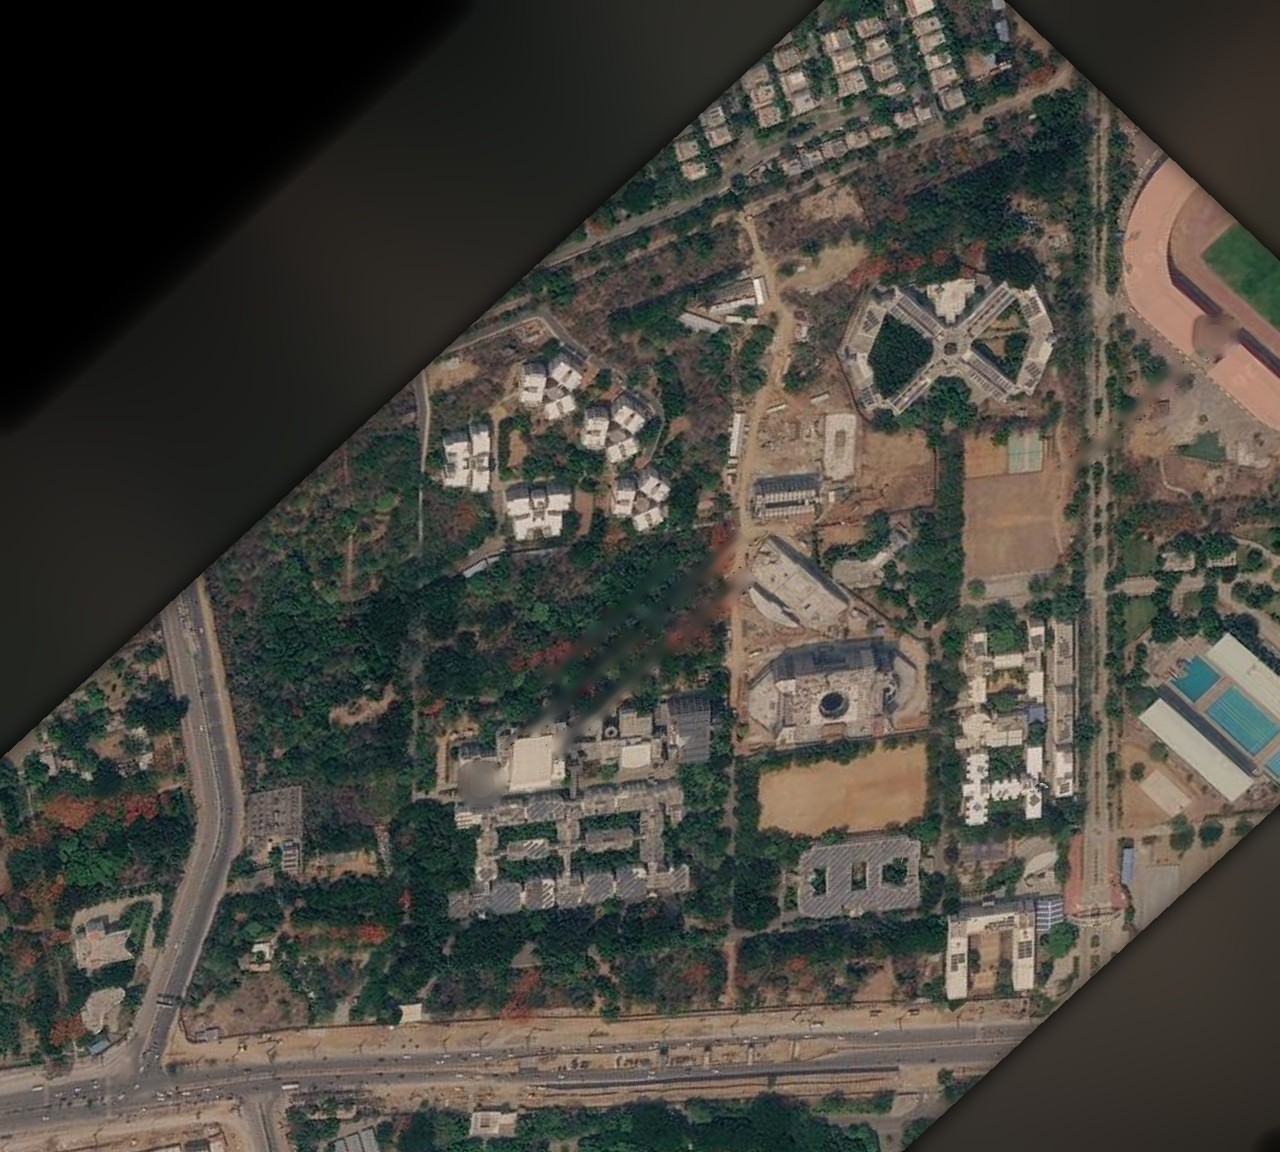
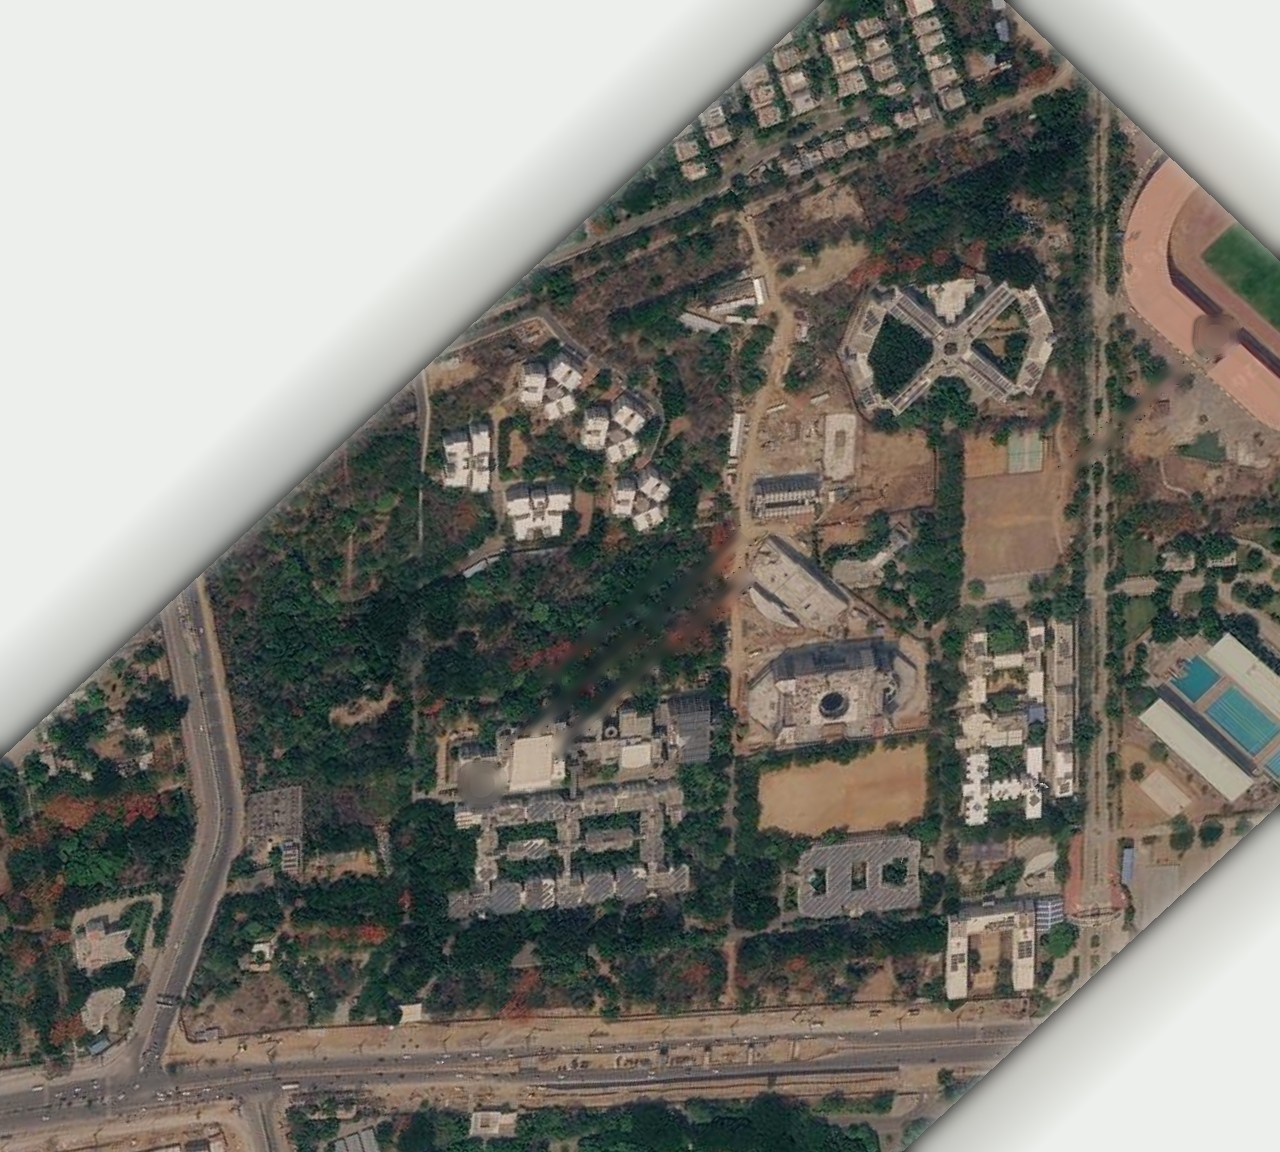
Fable fixes (mine): tour keys win over page keys (clicker no longer desyncs at IIIT Way), idle never ends a running tour and doesn't re-render a screen already home, tour cut to 6 steps incl. Then and now, board3 plays only the map, sourced captions for Bakul/Felicity, Google Earth credit and label 
Claude-Session: https://claude.ai/code/session_017PAGJRn717tYzJ7Tw9vE9L

Changed region(s): [[0.0, 0.0, 0.6562, 0.6562], [0.6875, 0.6875, 1.0, 1.0], [0.7812, 0.0, 1.0, 0.25]]

diff --git a/site/data/notes.js b/site/data/notes.js
@@ -7,27 +7,23 @@ M.notes = {
   pages: {
     start: { text: "Our question is in the title: do you know your institute? IIIT started in borrowed government buildings, with company schools in its classrooms. Over the years it took those spaces back and built its own. The logo is a banyan, and a banyan does the same thing: it leans on another tree, then drops its own roots. Each board is one part of that story.", sources: ["S-PJN", "S-GOPI"] },
     timeline: { text: "Everything we found, by year. Scroll to zoom in. The busiest stretch is 1998 to 2002: 49 of 50 students joined for a diploma, classes ran on two floors of Nilgiri, and IIIT became a deemed university in 2001. Zoom in all the way and some cards say \"Sources disagree\". Those are the ones we cover on Board 4.", sources: ["S-PJN", "S-GOPI"] },
-    photos: { text: "Old photos from IIITH's 20-year video and the prospectus from around 2001. Point out the gate sign, which says \"Indian Institute of Information Technology\", and the guest house sign, which says \"Mess & Lounge\". The guest house really was the first mess, and two separate sources back that up (it's card V1 on Board 4).", sources: ["S-PHOTOS", "S-PROSP", "S-GOPI"] },
-    way: { text: "Borrow, share, take back, build your own. Six company schools ran in Vindhya until IIIT took it back in 2007. Himalaya was built on a 22 crore loan, paid off in six of ten years. Only Block C was fitted out with IIIT's own money: Block A came with TalentSprint (bought out in 2018), the Kohli block with TCS, and Block D was T-Hub from 2015 to 2022. Don't say Himalaya had no company money in it.", sources: ["S-PJN", "S-NEWS-THUB", "S-PROSP"] },
+    photos: { text: "Old photos from IIITH's 20-year video and the prospectus from around 2001. Point out the gate sign, which says \"Indian Institute of Information Technology\", and the guest house sign, which says \"Mess & Lounge\". The guest house really was the first mess, and two separate sources back that up (it's card V1 on the Board 4 screen).", sources: ["S-PHOTOS", "S-PROSP", "S-GOPI"] },
+    way: { text: "Borrow, share, take back, build your own. Six company schools ran in Vindhya. IIIT took full control of it in 2007. Himalaya was built on a 22 crore loan, paid off in six of ten years. Only Block C was fitted out with IIIT's own money: Block A came with TalentSprint (bought out in 2018), the Kohli block with TCS, and Block D was T-Hub from 2015 to 2022. Don't say Himalaya had no company money in it.", sources: ["S-PJN", "S-NEWS-THUB", "S-PROSP"] },
     buildings: { text: "Satellite screenshots of four places, oldest to newest: the New Academic Block, Bakul Nivas, the Felicity ground and the amphitheatre. Only one frame has a date we could read (the amphitheatre, 14 March 2018), so don't guess years for the others. The NAB is going up where the first batch lived in 1998.", sources: ["S-PHOTOS", "S-PJN"] },
     map: { text: "The 2002 layout plan, fading into a satellite view of the campus today. Pick a journey on the left. The library is the best one: it opened in Nilgiri room 119 (now Saranga Hall) in 1998, moved to Vindhya A6 in 2001, and will move to the NAB. Rooms move around a lot more than people think.", sources: ["S-LAYOUT2002", "S-MURALI", "S-PING", "S-PJN"] },
     histree: { text: "HISTREE is the history of the trees. SLN Shastry saved four banyans from a road widening. One of them, Navjeevan, was moved three times: from the main road to Bakul Nivas, then to OBH. Even the trees were moved here and took root.", sources: ["S-SLN"] },
     "how-we-know": { text: "This is the public history part. Memory disagrees: Gopi says 100 acres were allotted, while the 2002 plan and the prospectus both say 62. Click a card to flip it. The verified cards are claims two independent sources agree on. We also got one thing wrong ourselves: our Phase 4 draft said Gopi ran the first mess, but his interview says he turned that job down. We fixed it.", sources: ["S-GOPI", "S-LAYOUT2002", "S-PROSP", "S-PHASE4"] },
     voices: { text: "Seven people told us their IIIT. Everyone agreed to be recorded and quoted. Each page has the full transcript, and you can search it.", sources: ["S-GOPI", "S-PJN", "S-SLN"] },
     archive: { text: "The documents we worked from: the prospectus from around 2001, the lab floor plans, the 2002 layout plan and the Ping article. These shouldn't live only on our website. If someone has an old photo or document, ask them to send it to us.", sources: ["S-PROSP", "S-FLOORPLANS", "S-LAYOUT2002", "S-PING"] },
+    ending: { text: "Every generation here thought it had run out of room: no degree in 1998, no hostels in 1999, borrowed teachers. Each one got solved. That's why we're hopeful about today's problems too.", sources: ["S-PJN", "S-PROSP"] },
     quiz: { text: "Eight questions. If someone took it at the entry, ask them to try again now and see if their score went up.", sources: [] }
   },
   tour: [
-    { route: "#/start", title: "Do you know your institute?", text: "Four boards, one story: how IIIT grew its own roots." },
-    { route: "#/timeline", title: "The timeline", text: "Every event we found, 1998 to today. Scroll to zoom." },
-    { route: "#/photos", title: "Old campus", text: "The early years, in old photos." },
-    { route: "#/way", title: "The IIIT Way", text: "Borrow, share, take back, build your own." },
-    { route: "#/buildings", title: "How buildings grew", text: "Satellite views, oldest to newest." },
-    { route: "#/map?journey=library", title: "Moving rooms", text: "The library has moved twice. Pick any journey." },
-    { route: "#/histree", title: "HISTREE", text: "Even the trees were moved." },
+    { route: "#/start", title: "Do you know your institute?", text: "IIIT started in borrowed buildings and slowly put down its own roots." },
+    { route: "#/way/build", title: "Himalaya: one loan, four blocks", text: "Only Block C was fitted out with IIIT's own money." },
+    { route: "#/map?journey=library", title: "Rooms move", text: "The library has had three homes. Pick any journey." },
     { route: "#/how-we-know", title: "How we know", text: "Where memories disagree, and how we checked." },
-    { route: "#/voices", title: "Voices", text: "Seven interviews, with full transcripts." },
-    { route: "#/archive", title: "The archive", text: "The documents behind all of this." },
+    { route: "#/ending", title: "Every generation ran out of room", text: "Each problem felt permanent. Each one got solved." },
     { route: "#/quiz", title: "Try the quiz again", text: "Did your score go up?" }
   ]
 };

diff --git a/site/js/pages/slides.js b/site/js/pages/slides.js
@@ -30,11 +30,13 @@
   /* Board 2. Satellite sequences, in the order context.md 14.3 gives. Frames come from places.js `sequence`. */
   var BUILD_PLACES = [
     { id: "nab", name: "New Academic Block", line: "Going up where the first batch lived in 1998." },
-    { id: "bakul", name: "Bakul Nivas", line: "A newer hostel, built on open land." },
-    { id: "felicity", name: "Felicity ground", line: "An open ground that got courts." },
+    { id: "bakul", name: "Bakul Nivas", line: "Seen from above while it was built." },
+    { id: "felicity", name: "Felicity ground", line: "The Felicity ground, seen from above." },
     { id: "amphitheatre", name: "Amphitheatre", line: "The amphitheatre and the basketball court." }
   ];
 
+  // black video bars on the 20-year-video stills: [top %, bottom %] to crop away
+  var CROP = { "img-01": [14.4, 5.1], "img-02": [13.4, 12.6], "img-03": [13.0, 12.5], "img-04": [13.0, 12.6], "img-05": [12.9, 12.5], "img-07": [6.5, 0] };
   var FILE_SIZES = { "ximg-01.jpg": [550, 324], "ximg-02.jpg": [550, 324], "ximg-05.jpg": [173, 209], "ximg-06.jpg": [524, 425], "ximg-07.jpg": [499, 431] };
 
   var S = null;
@@ -42,12 +44,14 @@
   /** {src, w, h} for an image id from images.js or a plain file path. */
   function pic(x) {
     var im = U.image(x);
-    if (im) return { src: im.file, w: im.w || 1600, h: im.h || 1000 };
+    if (im) return { src: im.file, w: im.w || 1600, h: im.h || 1000, crop: CROP[x] || null };
     var sz = FILE_SIZES[x.split("/").pop()] || [1600, 1000];
     return { src: x, w: sz[0], h: sz[1] };
   }
   function imgNode(p, extra) {
-    var st = { "--ar": (p.w / p.h).toFixed(4), "--nw": Math.round(p.w * 2.2) + "px" };
+    var keep = p.crop ? 1 - (p.crop[0] + p.crop[1]) / 100 : 1;
+    var st = { "--ar": (p.w / (p.h * keep)).toFixed(4), "--nw": Math.round(p.w * 2.2) + "px" };
+    if (p.crop) st.objectViewBox = "inset(" + p.crop[0] + "% 0 " + p.crop[1] + "% 0)";
     Object.keys(extra || {}).forEach(function (k) { st[k] = extra[k]; });
     return el("div", { class: "sl-img" }, el("img", { src: p.src, alt: "", draggable: "false", style: st }));
   }
@@ -187,7 +191,7 @@
         el("div", { class: "sl-pips" }, Array.apply(null, { length: item.n }).map(function (_, j) {
           return el("i", { class: j < item.k ? "done" : (j === item.k ? "now" : "") });
         })),
-        el("p", { class: "sl-src" }, "Satellite screenshots, oldest to newest. Frame " + (item.k + 1) + " of " + item.n + ".")));
+        el("p", { class: "sl-src" }, "Google Earth screenshots, oldest to newest. Frame " + (item.k + 1) + " of " + item.n + ".")));
     return node;
   }
 

diff --git a/site/data/places.js b/site/data/places.js
@@ -11,7 +11,7 @@ M.places = [
     summary: "The first academic building. First classes, first library (room 119, now Saranga Hall) and the first server room were all here.",
     images: ["img-37", "img-38", "img-x01"], journeys: ["library", "big-hall", "server-room"], sources: ["S-PJN", "S-SLN", "S-MURALI", "S-LAYOUT2002"] },
   { id: "vindhya", name: "Vindhya", aka: ["\"Corporate Schools\" on the 2002 plan"],
-    hotspot: { plan2002: { x: 30.5, y: 63.5, w: 26, h: 16 }, now: null },
+    hotspot: { plan2002: { x: 30.5, y: 63.5, w: 26, h: 16 }, now: null }, labelBelow: true,
     summary: "Built for the old district collectorate. IIIT's company schools ran here until 2007. Then it became labs, and later home to the library.",
     images: ["img-19"], journeys: ["vindhya-rooms", "library", "sleep", "big-hall", "labs"], sources: ["S-GOPI", "S-PJN", "S-LAYOUT2002", "S-BLOGCORP"] },
   { id: "guest-house", name: "Guest House", aka: ["\"Guest House\" with a lawn on the 2002 plan"],
@@ -60,7 +60,7 @@ M.places = [
     sequence: ["img-09", "img-10", "img-11", "img-12", "img-13", "img-14"], sources: ["S-PJN", "S-MURALI", "S-PHOTOS"] },
   { id: "bakul", name: "Bakul Nivas", aka: [],
     hotspot: { plan2002: null, now: [[85.7, 80.6], [76.5, 90.0], [70.2, 83.3], [79.3, 73.9]] }, after2002: true,
-    summary: "A newer hostel. Navjeevan the banyan stopped here on its way from the main road to OBH. The satellite screenshots show it being built.",
+    summary: "Navjeevan the banyan stopped here on its way from the main road to OBH. The satellite screenshots show the building going up.",
     images: ["img-33", "img-34", "img-35", "img-36"], journeys: ["navjeevan"],
     sequence: ["img-33", "img-34", "img-35", "img-36"], sources: ["S-SLN", "S-PHOTOS"] },
   { id: "felicity", name: "Felicity ground", aka: [],

diff --git a/site/css/map.css b/site/css/map.css
@@ -21,7 +21,8 @@
 .map-img { width: 100%; height: 100%; display: block; user-select: none; -webkit-user-drag: none; }
 .map-img.now, .map-img.plan { position: absolute; inset: 0; }
 .map-img.plan { mix-blend-mode: multiply; will-change: opacity; }
-.map-img.now { will-change: mask-image; }
+.map-img.now { will-change: opacity; opacity: 0; }
+.map-label.below { margin-top: .5rem; }
 /* era-only hotspots and labels: newer buildings show on today's view, gone ones on the 2002 view */
 .hot, .map-label { transition: opacity 500ms var(--ease-out), fill var(--t-fast), stroke var(--t-fast), background var(--t-fast), color var(--t-fast), scale var(--t-fast) var(--ease-out); }
 .map-page:not(.is-now) .now-only, .map-page.is-now .then-only { opacity: 0 !important; pointer-events: none; }
@@ -29,7 +30,7 @@
 .map-page.is-now .hot:hover, .map-page.is-now .hot:focus-visible { fill: rgba(201, 150, 46, .3); stroke: #FFE7A8; }
 .map-page.is-now .hot.sel { fill: rgba(47, 93, 58, .3); stroke: #9fe0ae; }
 .map-page.is-now .map-content { box-shadow: 0 10px 40px rgba(0, 0, 0, .35); }
-.map-morph { position: absolute; left: 50%; top: 1rem; transform: translateX(-50%); z-index: 4; display: flex; align-items: center; gap: .6rem; padding: .35rem .45rem; border-radius: 999px;
+.map-morph { position: absolute; left: 1rem; top: 1rem; z-index: 4; display: flex; align-items: center; gap: .6rem; padding: .35rem .45rem; border-radius: 999px;
   background: rgba(251, 248, 241, .95); border: 1px solid var(--rule); box-shadow: var(--shadow-2); }
 .morph-btn { padding: .4rem .85rem; min-height: 36px; border-radius: 999px; font-size: .82rem; font-weight: 700; color: var(--ink-2); white-space: nowrap; transition: background var(--t-fast), color var(--t-fast); }
 .morph-btn.on { background: var(--ink); color: var(--paper); }

diff --git a/site/js/pages/map.js b/site/js/pages/map.js
@@ -30,9 +30,7 @@
     S.t = U.clamp(t, 0, 1);
     var e = S.t * S.t * (3 - 2 * S.t);
     S.planImg.style.opacity = (1 - e).toFixed(3);
-    var r = (S.t * 150).toFixed(1);
-    var m = S.t >= 1 ? "none" : "radial-gradient(circle at 50% 55%, #000 " + Math.max(0, r - 18) + "%, transparent " + r + "%)";
-    S.nowImg.style.webkitMaskImage = m; S.nowImg.style.maskImage = m;
+    S.nowImg.style.opacity = e.toFixed(3);
     var isNow = S.t > 0.5;
     if (S.root.classList.contains("is-now") !== isNow) { S.root.classList.toggle("is-now", isNow); updateBadge(); }
     S.morphRange.value = String(Math.round(S.t * 100));
@@ -334,7 +332,8 @@
       places.forEach(function (p) {
         var r = geom(p); if (!r) return;
         var lab = el("button", { class: "map-label " + eraClass(p), type: "button", dataset: { id: p.id }, on: { click: function () { clearJourney(); openPlace(p.id); } } }, p.name.replace(/ \(.*\)$/, ""));
-        S.overlay.appendChild(lab); S.labels.push({ id: p.id, el: lab, at: { x: r.x + r.w / 2, y: r.y } });
+        if (p.labelBelow) lab.classList.add("below");
+        S.overlay.appendChild(lab); S.labels.push({ id: p.id, el: lab, at: { x: r.x + r.w / 2, y: p.labelBelow ? r.y + r.h : r.y } });
       });
       var badge = el("div", { class: "map-badge" }, el("b", null, ""), el("span", null, ""));
       S.badge = badge;

diff --git a/site/js/core/tour.js b/site/js/core/tour.js
@@ -69,15 +69,20 @@
     return navBtn;
   };
 
-  document.addEventListener("keydown", function (e) {
+  // capture phase on window, so a clicker's PageDown drives the tour and never reaches a page's own key handler
+  window.addEventListener("keydown", function (e) {
     if (e.defaultPrevented || e.ctrlKey || e.metaKey || e.altKey) return;
     var t = e.target, tag = t && t.tagName;
     if (tag === "INPUT" || tag === "TEXTAREA" || tag === "SELECT" || (t && t.isContentEditable)) return;
+    var stepKey = e.key === "PageDown" || e.key === "]" || e.key === "PageUp" || e.key === "[";
+    if (bar && stepKey) {
+      e.preventDefault(); e.stopImmediatePropagation();
+      if (e.key === "PageDown" || e.key === "]") T.next(); else T.prev();
+      return;
+    }
     if (e.key === "t" || e.key === "T") { if (bar) T.stop(); else T.start(); updateBtn(); }
     else if (e.key === "n" || e.key === "N") T.toggleNotes();
-    else if (bar && (e.key === "PageDown" || e.key === "]")) { e.preventDefault(); T.next(); }
-    else if (bar && (e.key === "PageUp" || e.key === "[")) { e.preventDefault(); T.prev(); }
-  });
+  }, true);
 
   // keep the note in step with the page; the router calls this after every swap
   M.router.onChange(renderNote);

diff --git a/site/css/slides.css b/site/css/slides.css
@@ -46,6 +46,9 @@ body[data-page="photos"], body[data-page="buildings"] { background: #0b0b0a; }
 .slides[data-kind="buildings"] .sl-slide { transition-duration: 1100ms; }
 .slides[data-kind="buildings"] .sl-fig { inset: 3vh 30vw 3vh 3vw; }
 .sl-fig.sat .sl-img { border-radius: 6px; }
+.sl-fig.sat .sl-img img { transform: scale(1.14); }   /* push Google's map labels and pins at the edges out of the frame */
+body.touring .sl-cap { bottom: 9.5rem; }
+body.touring .sl-fig { bottom: 22vh; }
 .slides[data-kind="buildings"] .sl-slide.on .sl-img img { animation: none; }
 .sl-place { position: absolute; right: 3vw; top: 50%; width: 24vw; transform: translateY(-50%); }
 .sl-place h2 { font-size: clamp(1.8rem, 3.2vw, 4rem); line-height: 1.02; margin: 0 0 .5rem; color: #fff; }

diff --git a/site/data/config.js b/site/data/config.js
@@ -16,7 +16,7 @@ M.config = {
     board2: { label: "Monitor 2: Board 2, The IIIT Way", short: "the buildings", home: "#/buildings",
               playlist: [ { route: "#/buildings", secs: 0 } ] },
     board3: { label: "Monitor 3: Board 3, Institutional changes", short: "the map", home: "#/map?autoplay=1",
-              playlist: [ { route: "#/map?autoplay=1", secs: 240 }, { route: "#/histree", secs: 45 } ] },
+              playlist: [ { route: "#/map?autoplay=1", secs: 0 } ] },
     board4: { label: "Monitor 4: Board 4, How we know", short: "how we know", home: "#/how-we-know?autoplay=1", tour: true,
               playlist: [ { route: "#/how-we-know?autoplay=1", secs: 0 } ] },
     entry:  { label: "Entry (spare screen)", short: "the start", home: "#/start" }

diff --git a/site/data/events.js b/site/data/events.js
@@ -70,7 +70,7 @@ M.events = [
 
   { id: "e-1998-servers", year: 1998, era: "founding", sort: 10,
     title: "IIIT runs its own servers in Nilgiri",
-    summary: "Nilgiri had IIIT's first server room. The institute bought its own hardware and hosted its own email on Zimbra.",
+    summary: "Nilgiri had IIIT's first server room. The institute bought its own hardware and hosted its own email (later on Zimbra, then Microsoft).",
     body: "Students helped run the systems alongside the IT staff. Email later moved to Microsoft. The Nilgiri servers are still running in 2026, while the server room moves to the IT wing in Vindhya.",
     category: ["operations"], places: ["nilgiri"], people: [], sources: ["S-PJN"], confidence: "single", images: [], featured: false },
 

diff --git a/site/css/look.css b/site/css/look.css
@@ -108,6 +108,8 @@ html.look-v2 .sheet-bar { background: var(--paper-2); }
 html.look-v2 .sheet-body > * { animation: none; }
 
 /* ---------- start ---------- */
+html.look-v2 .start { overflow: visible; }
+html.look-v2 .start .coin-stage { --size: min(26vw, 40vh, 500px); }
 html.look-v2 .start .enter { animation: none; }
 html.look-v2 .start .coin-wrap.enter { animation: start-in 900ms var(--ease-out) both; }
 html.look-v2 .start-kicker { font-family: var(--font-body); font-size: 1.05rem; font-weight: 700; color: var(--ink-2); gap: 0; }

diff --git a/site/js/core/kiosk.js b/site/js/core/kiosk.js
@@ -52,8 +52,10 @@
   }
   function onIdle() {
     if (!screen) return;
-    if (M.tour && M.tour.active()) M.tour.stop();
+    if (M.tour && M.tour.active()) { resetIdle(); return; }   // a guide talking over one step: keep the tour
     if (M.tour) M.tour.toggleNotes(false);
+    var list = screen.playlist || [];
+    if (list.length === 1 && location.hash === list[0].route) { while (M.ui.closeTop()) { /* just close panels */ } return; }
     playIndex = -1;
     playNext();
   }

diff --git a/site/css/base.css b/site/css/base.css
@@ -72,7 +72,7 @@
 }
 
 *, *::before, *::after { box-sizing: border-box; }
-html { font-size: clamp(16px, 0.55rem + 0.6vw, 22px); -webkit-text-size-adjust: 100%; scroll-behavior: smooth; }
+html { font-size: clamp(16px, 0.55rem + 0.6vw, 22px); -webkit-text-size-adjust: 100%; scroll-behavior: smooth; scroll-padding-top: calc(var(--nav-h) + 12px); }
 body {
   margin: 0;
   min-height: 100vh;
